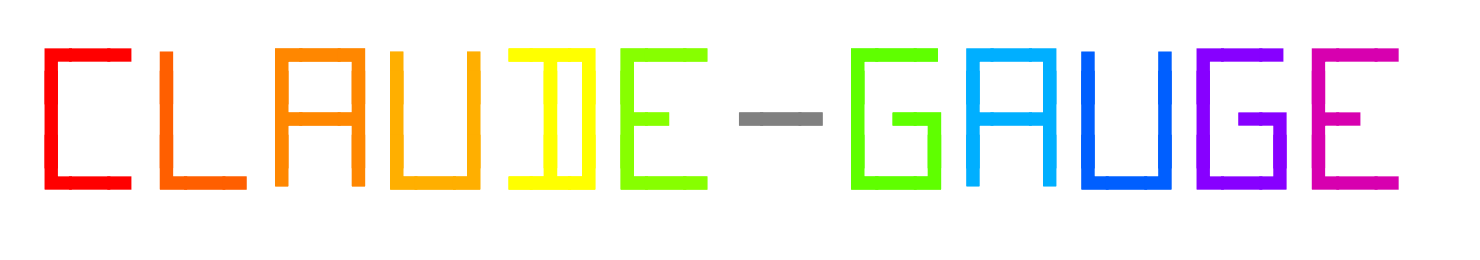
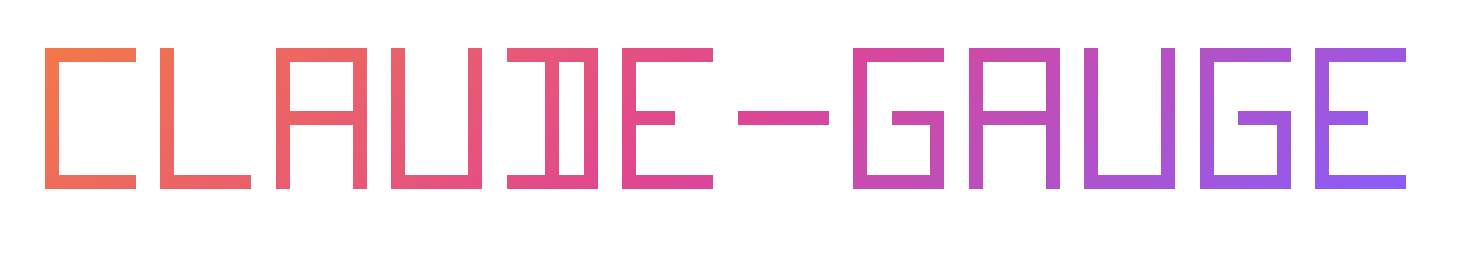
feat: draw the wordmark in a diagonal coral, pink and violet gradient
The CLI wordmark gave each letter one flat 256-colour rainbow colour. Now
each cell gets its own 24-bit colour, blended across three stops: coral,
pink and violet. Each row starts the gradient 2 columns further along, so
the colour runs on a diagonal. The hyphen is part of the gradient.

scripts/wordmark.js draws the README's wordmark as an SVG from the CLI's
own rows, and scripts/media.sh turns it into wordmark-dark.png and
wordmark-light.png with rsvg-convert. The light picture uses darker stops,
so it reads on a white page.

Claude-Session: https://claude.ai/code/session_01H9P8oK7QaWfQJYKGtKHF33

Changed region(s): [[0.0311, 0.1846, 0.4973, 0.7385], [0.4973, 0.1846, 0.9635, 0.7385]]

diff --git a/test/cli.test.js b/test/cli.test.js
@@ -342,16 +342,30 @@ test('--help starts with the wordmark, then a blank line, then the usage', () =>
   assert.ok(r.stdout.startsWith(`${WORDMARK.join('\n')}\n\nUsage: claude-gauge <setup | configure`), r.stdout);
 });
 
-// The wordmark in colour: one 256-colour code in front of each chunk, the 11
-// letters in rainbow order and the hyphen grey, and a reset at each row's end.
-const COLORS = [196, 202, 208, 214, 226, 118, 244, 82, 39, 27, 93, 163];
-const RAINBOW = WORDMARK.map((row) => row.match(/.{3}/g).map((chunk, i) => `\x1b[38;5;${COLORS[i]}m${chunk}`).join('') + '\x1b[0m');
+// The wordmark in colour: a 24-bit colour code in front of each cell, from a
+// coral, pink and violet gradient that each row starts 2 columns further
+// along, so it runs on a diagonal, and a reset at each row's end.
+const STOPS = [
+  [242, 119, 74],
+  [224, 69, 146],
+  [139, 92, 246],
+];
+const gradient = (t) => {
+  const at = t * (STOPS.length - 1);
+  const i = Math.min(Math.floor(at), STOPS.length - 2);
+  return STOPS[i].map((from, c) => Math.round(from + (STOPS[i + 1][c] - from) * (at - i)));
+};
+const SPAN = WORDMARK[0].length - 1 + 2 * (WORDMARK.length - 1);
+const GRADIENT = WORDMARK.map(
+  (row, y) =>
+    [...row].map((cell, x) => `\x1b[38;2;${gradient((x + 2 * y) / SPAN).join(';')}m${cell}`).join('') + '\x1b[0m',
+);
 
-test('FORCE_COLOR or CLICOLOR_FORCE draws the wordmark a colour a letter, the hyphen grey, with a reset at each row end', () => {
+test('FORCE_COLOR or CLICOLOR_FORCE draws the wordmark in a diagonal gradient, with a reset at each row end', () => {
   for (const colour of [{ FORCE_COLOR: '1' }, { CLICOLOR_FORCE: '1' }]) {
     const r = runCli(configFolder(), ['--help'], { env: colour });
     ok(r);
-    assert.ok(r.stdout.startsWith(`${RAINBOW.join('\n')}\n`), JSON.stringify(colour) + JSON.stringify(r.stdout.slice(0, 400)));
+    assert.ok(r.stdout.startsWith(`${GRADIENT.join('\n')}\n`), JSON.stringify(colour) + JSON.stringify(r.stdout.slice(0, 400)));
   }
 });
 
@@ -363,7 +377,7 @@ test('the wordmark is plain text off a terminal, with a FORCE_COLOR of 0, or wit
     assert.ok(r.stdout.startsWith(usage), JSON.stringify(colour) + JSON.stringify(r.stdout.slice(0, 400)));
   }
   const empty = runCli(configFolder(), ['--help'], { env: { NO_COLOR: '', FORCE_COLOR: '1' } });
-  assert.ok(empty.stdout.startsWith(RAINBOW[0]), 'an empty NO_COLOR is no NO_COLOR');
+  assert.ok(empty.stdout.startsWith(GRADIENT[0]), 'an empty NO_COLOR is no NO_COLOR');
 });
 
 // A spawned CLI never writes to a terminal, so the gate's terminal cases are
@@ -406,7 +420,7 @@ const ERROR = icon(SGR.error, '✖');
 
 // In colour the usage sits under a USAGE pill, as a command's result sits
 // under its own, so its first line drops the Usage: that the pill now says.
-const USAGE_PILL = `${RAINBOW.join('\n')}\n\n${pill('USAGE')}\nclaude-gauge <setup | configure | uninstall | update> [switches]\n`;
+const USAGE_PILL = `${GRADIENT.join('\n')}\n\n${pill('USAGE')}\nclaude-gauge <setup | configure | uninstall | update> [switches]\n`;
 
 test('--help in colour puts a USAGE pill between the wordmark and the usage', () => {
   for (const colour of [{ FORCE_COLOR: '1' }, { CLICOLOR_FORCE: '1' }]) {
@@ -530,7 +544,7 @@ test('the setup and configure questions start with the wordmark and a blank line
   assert.ok(configure.stdout.startsWith(`${WORDMARK.join('\n')}\n\nCONFIGURE\nThe status line as set up now:\n`), configure.stdout);
   const coloured = ask(dir, ['configure'], ['keep'], { env: { NO_COLOR: '', FORCE_COLOR: '1' } });
   ok(coloured);
-  assert.ok(coloured.stdout.startsWith(`${RAINBOW.join('\n')}\n\n${pill('CONFIGURE')}\nThe status line as set up now:\n`), JSON.stringify(coloured.stdout.slice(0, 400)));
+  assert.ok(coloured.stdout.startsWith(`${GRADIENT.join('\n')}\n\n${pill('CONFIGURE')}\nThe status line as set up now:\n`), JSON.stringify(coloured.stdout.slice(0, 400)));
 });
 
 test('the commands run with switches print no wordmark, so scripts and the slash commands get short output', () => {

diff --git a/src/wordmark.ts b/src/wordmark.ts
@@ -9,12 +9,31 @@ const WORDMARK: readonly (readonly string[])[] = [
   ['┗━╸', '┗━╸', '╹ ╹', '┗━┛', '╺┻┛', '┗━╸', '   ', '┗━┛', '╹ ╹', '┗━┛', '┗━┛', '┗━╸'],
 ];
 
-// A 256-colour number for each chunk: deslopper's rainbow widened to the 11
-// letters, with 27 for blue because 21 reads poorly on a dark background, and
-// grey for the hyphen.
-const COLORS = [196, 202, 208, 214, 226, 118, 244, 82, 39, 27, 93, 163];
+type Rgb = readonly [number, number, number];
+
+// The gradient's three stops: coral, pink and violet, which read on a dark
+// and a light background alike.
+const STOPS: readonly Rgb[] = [
+  [242, 119, 74],
+  [224, 69, 146],
+  [139, 92, 246],
+];
+
+// How many columns each row's gradient starts to the right of the row above,
+// which tilts the gradient into a diagonal.
+const SHIFT = 2;
 
 const RESET = '\x1b[0m';
+
+// The colour at `t`, from 0 at the first stop to 1 at the last, blended
+// straight between the two stops on each side.
+function blend(t: number): Rgb {
+  const at = t * (STOPS.length - 1);
+  const i = Math.min(Math.floor(at), STOPS.length - 2);
+  const f = at - i;
+  const [from, to] = [STOPS[i], STOPS[i + 1]];
+  return [0, 1, 2].map((c) => Math.round(from[c] + (to[c] - from[c]) * f)) as unknown as Rgb;
+}
 
 // Whether to colour what goes to `stream`, in deslopper's order: a non-empty
 // NO_COLOR turns colour off, a FORCE_COLOR or CLICOLOR_FORCE that is neither
@@ -25,12 +44,22 @@ function colorEnabled(stream: { isTTY?: boolean }, env: NodeJS.ProcessEnv = proc
   return stream.isTTY === true;
 }
 
-// The wordmark's three rows, each ending in a newline. In colour each chunk
-// starts with its colour code and each row ends with a reset.
+// The wordmark's three rows, each ending in a newline. In colour each cell
+// starts with a 24-bit colour code from a diagonal gradient, and each row
+// ends with a reset.
 function wordmark(color: boolean): string {
-  const row = (chunks: readonly string[]) =>
-    color ? chunks.map((chunk, i) => `\x1b[38;5;${COLORS[i]}m${chunk}`).join('') + RESET : chunks.join('');
-  return WORDMARK.map((chunks) => row(chunks) + '\n').join('');
+  const width = WORDMARK[0].join('').length;
+  const span = width - 1 + SHIFT * (WORDMARK.length - 1);
+  const row = (chunks: readonly string[], y: number) => {
+    const cells = [...chunks.join('')];
+    if (!color) return cells.join('');
+    const coloured = cells.map((cell, x) => {
+      const [r, g, b] = blend((x + SHIFT * y) / span);
+      return `\x1b[38;2;${r};${g};${b}m${cell}`;
+    });
+    return coloured.join('') + RESET;
+  };
+  return WORDMARK.map((chunks, y) => row(chunks, y) + '\n').join('');
 }
 
 export { wordmark, colorEnabled };

diff --git a/scripts/wordmark.js b/scripts/wordmark.js
@@ -1,0 +1,63 @@
+// Draws the README's wordmark as an SVG on stdout: the CLI's rows from the
+// build, each box-drawing cell as thick strokes, under the CLI's diagonal
+// gradient. scripts/media.sh turns it into docs/media/wordmark-dark.png and
+// wordmark-light.png. Pass `light` for the darker stops that read on white.
+const { wordmark } = require('../dist/wordmark.js');
+
+const rows = wordmark(false).trimEnd().split('\n');
+
+// The gradient's stops, as in src/wordmark.ts, and darker ones for a light
+// background.
+const STOPS = {
+  dark: ['#f2774a', '#e04592', '#8b5cf6'],
+  light: ['#d9572b', '#c42a78', '#6b3fd9'],
+};
+const SHIFT = 2;
+
+// Each glyph as the arms it draws from the cell's centre.
+const ARMS = {
+  '┏': 'rd', '┓': 'ld', '┗': 'ur', '┛': 'ul', '━': 'lr', '┃': 'ud',
+  '┣': 'udr', '┫': 'udl', '┳': 'lrd', '┻': 'lru',
+  '╸': 'l', '╺': 'r', '╹': 'u', '╻': 'd',
+};
+
+const W = 38.5;
+const H = 63.5;
+const STROKE = 14;
+const LEFT = 52;
+const TOP = 55;
+const half = STROKE / 2;
+
+const rects = [];
+rows.forEach((row, y) => {
+  [...row].forEach((cell, x) => {
+    const cx = LEFT + x * W;
+    const cy = TOP + y * H;
+    for (const arm of ARMS[cell] ?? '') {
+      const r = {
+        l: [cx - W / 2, cy - half, W / 2 + half, STROKE],
+        r: [cx - half, cy - half, W / 2 + half, STROKE],
+        u: [cx - half, cy - H / 2, STROKE, H / 2 + half],
+        d: [cx - half, cy - half, STROKE, H / 2 + half],
+      }[arm];
+      rects.push(`<rect x="${r[0]}" y="${r[1]}" width="${r[2]}" height="${r[3]}"/>`);
+    }
+  });
+});
+
+// The gradient runs from the first cell's centre, across the direction in
+// which a cell's place in it, (x + SHIFT * y) / span, grows.
+const span = [...rows[0]].length - 1 + SHIFT * (rows.length - 1);
+const [gx, gy] = [1 / W, SHIFT / H];
+const s = span / (gx * gx + gy * gy);
+const stops = STOPS[process.argv[2] === 'light' ? 'light' : 'dark'];
+
+process.stdout.write(`<svg xmlns="http://www.w3.org/2000/svg" width="1480" height="260" viewBox="0 0 1480 260">
+<defs><linearGradient id="g" gradientUnits="userSpaceOnUse" x1="${LEFT}" y1="${TOP}" x2="${LEFT + s * gx}" y2="${TOP + s * gy}">
+${stops.map((c, i) => `<stop offset="${i / (stops.length - 1)}" stop-color="${c}"/>`).join('\n')}
+</linearGradient></defs>
+<g fill="url(#g)" shape-rendering="crispEdges">
+${rects.join('\n')}
+</g>
+</svg>
+`);
